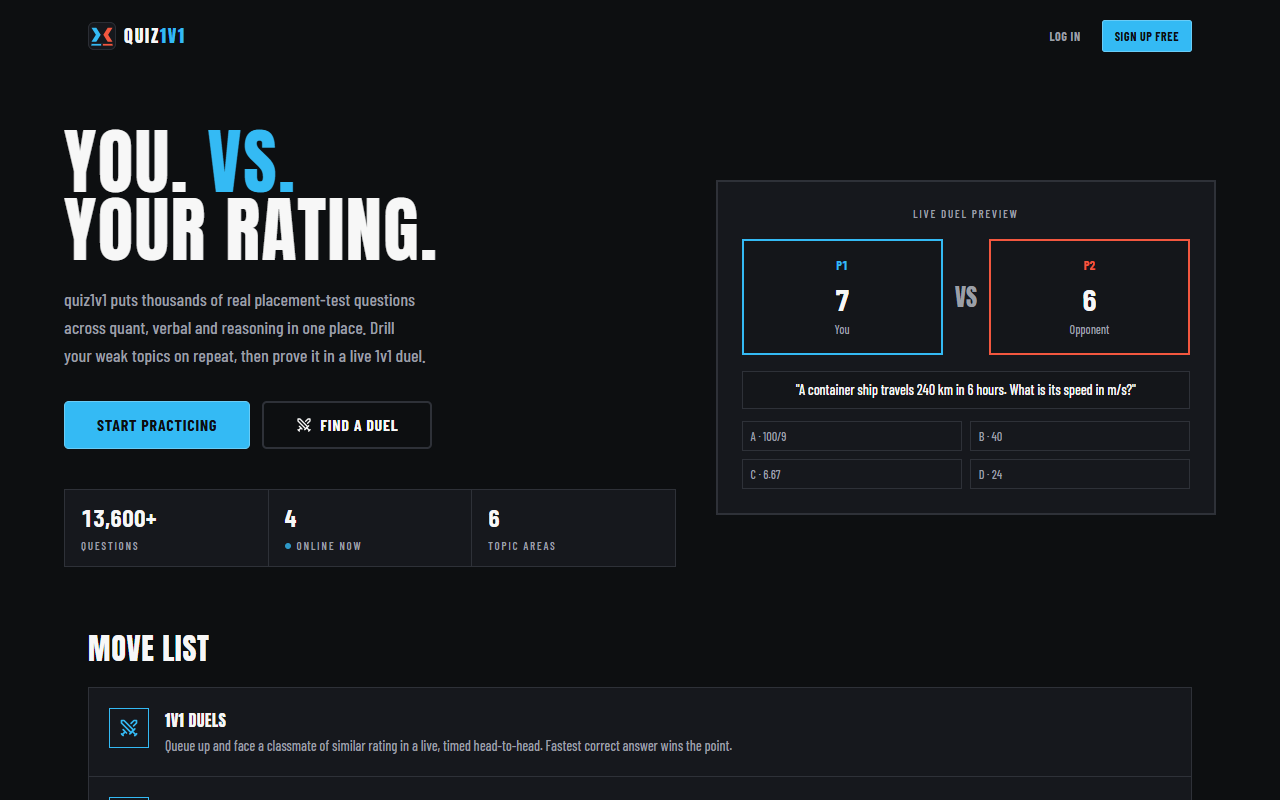
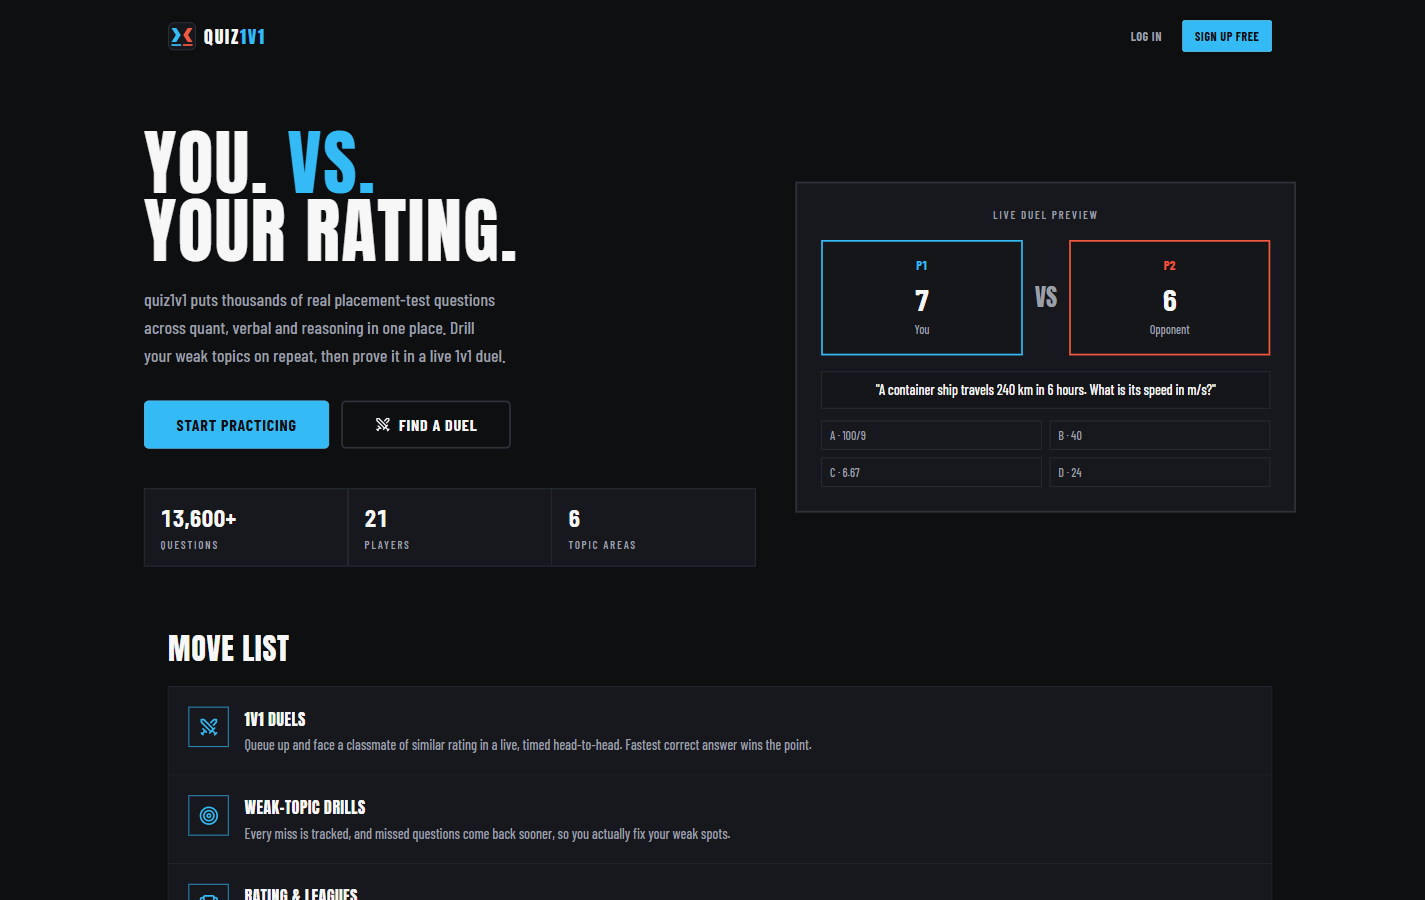
README: refresh screenshots and document the new profile features
Screen-sized captures from the feature tour replace the landing, topic,
Arena, practice, leaderboard, friends, progress and profile images. New
images and text cover the daily activity calendar, other players' profiles
(versus header, head-to-head, tale of the tape) and three phone screens.
The header links to the Instagram and LinkedIn pages. The three duel
images stay: the live duel, its result and the search state need a real
opponent to recapture, and that UI did not change.

diff --git a/README.md b/README.md
@@ -8,6 +8,8 @@
 
 Free to use. No credit card. Sign up with email, Google or GitHub and start in under a minute.
 
+Follow quiz1v1 on [Instagram](https://www.instagram.com/quiz1v1) and [LinkedIn](https://www.linkedin.com/company/quiz1v1).
+
 <img src="docs/screenshots/landing.png" alt="quiz1v1 landing page" width="860">
 
 </div>
@@ -104,10 +106,27 @@ directly. Notifications tell you when a challenge or request arrives.
 
 ### 7. Your profile
 
-Your profile keeps your rating and best rating, league, current and best streak, duels played, overall accuracy, XP,
-accuracy by topic and your recent activity.
+Your profile shows your rating, rank and best rating, how far you are from the next league, your streak, duels played
+(with your win-loss record), overall accuracy and XP. Below that are a **rating graph** of every duel you have played
+(hover a point for that duel), **accuracy by topic** with your weakest topics first, and your recent duels and practice
+sessions.
 
-<img src="docs/screenshots/profile.png" alt="Profile page with stats and topic accuracy" width="860">
+<img src="docs/screenshots/profile.png" alt="Profile page with rating, league progress, stats and rating graph" width="860">
+
+The **daily activity** calendar shows a year of play at a glance, one square per day, shaded by how many questions you
+answered. The current year covers the last 12 months up to today; earlier years show January to December. Pick a day
+(or move with the arrow keys) to see that day's duels and practice sessions, each linking to its full review.
+
+<img src="docs/screenshots/profile-activity.png" alt="Daily activity calendar with one day's duels and practice sessions" width="860">
+
+### 8. Other players' profiles
+
+Open anyone's profile and it is set up like a fight: you on one side, them on the other. You see their rating, rank
+and league, your **head-to-head record** with the recent duels between you (each one opens its review), and a
+**tale of the tape** that puts your stats and theirs side by side. Challenge them or add them as a friend from the
+same screen.
+
+<img src="docs/screenshots/friend-profile.png" alt="Another player's profile with a versus header, head-to-head and tale of the tape" width="860">
 
 ### Works on your phone
 
@@ -115,7 +134,9 @@ The whole app is responsive. On a phone the sidebar becomes a bottom navigation 
 fits in a spare few minutes.
 
 <div align="center">
-<img src="docs/screenshots/mobile-arena.png" alt="Arena on a phone" width="300">
+<img src="docs/screenshots/mobile-arena.png" alt="Arena on a phone" width="250">
+<img src="docs/screenshots/mobile-profile.png" alt="Your profile on a phone" width="250">
+<img src="docs/screenshots/mobile-friend-profile.png" alt="Another player's profile on a phone" width="250">
 </div>
 
 ## Topics
